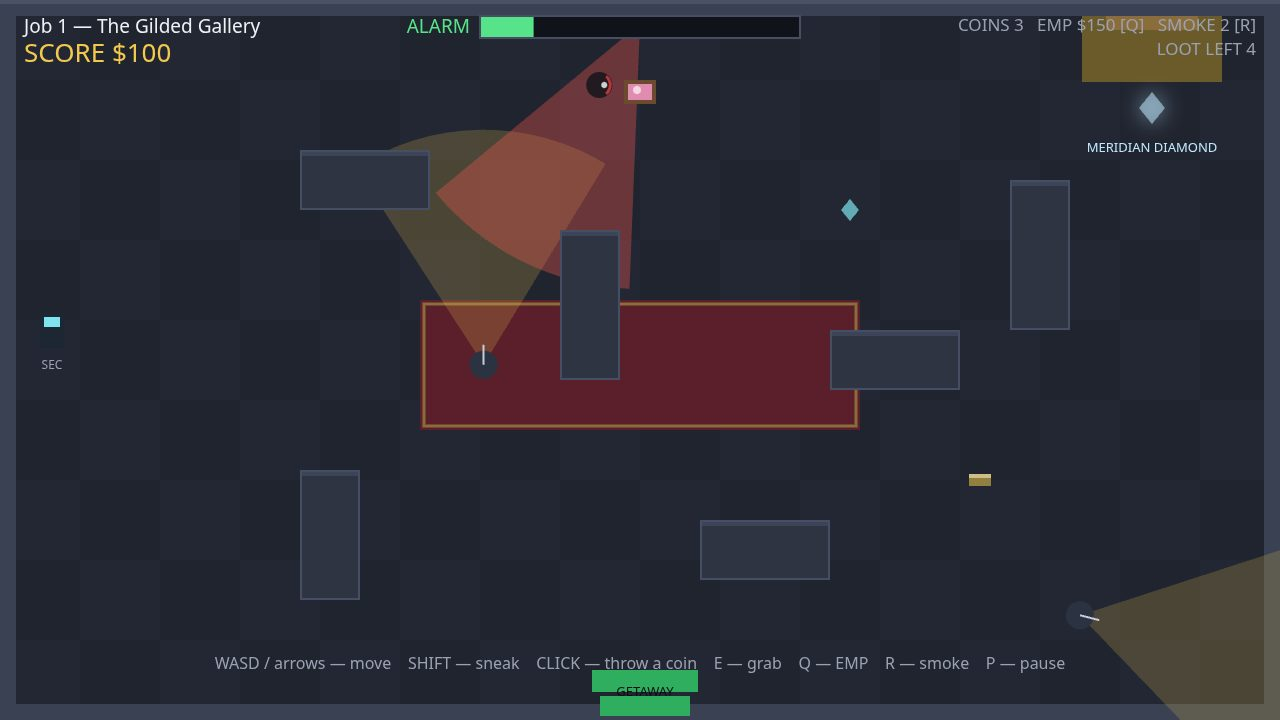
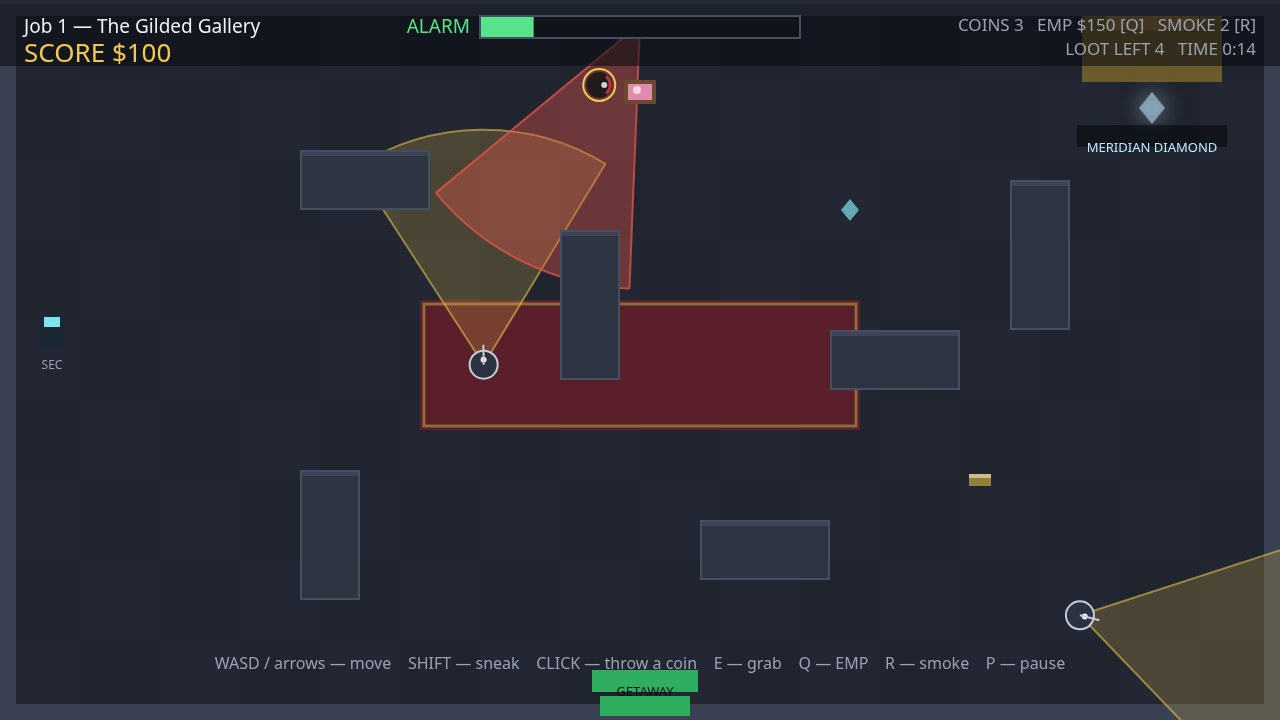
Polish pass: readable HUD, visible thief, crisp cones, game feel
- HUD: dark shelf across the top so tools/loot text never sits on the
  gold vault; level clock (TIME m:ss) next to the loot count; dark pill
  behind banner text and the MERIDIAN DIAMOND label
- Readability: bright gold ring on the thief (was near-invisible black
  on a dark floor), pale outline ring + face dot on guards, hard
  stroked edges on every vision cone so the danger line reads as a line
- Honest feedback: dark cameras now draw dead-grey cones and grey mount
  dots (never a live blue cone); floating +$ / -$ popups on grabs and
  EMP spends; screen shake + red edge glow while chased or alarm >= 75
- Render-only changes (config.js palette + render.js); world, autopilot,
  levels and tuning untouched. Screenshots refreshed from the new build.

diff --git a/game/src/render.js b/game/src/render.js
@@ -58,13 +58,25 @@ export function createRenderer(canvas) {
     context.fillText(value, x, y);
   }
 
-  function drawCone(x, y, facing, range, halfAngle, fill) {
+  // The cone's edge is stroked harder than its fill: the line is the rule a
+  // player plans around, so it must read as a line, not a haze.
+  function drawCone(x, y, facing, range, halfAngle, fill, edge) {
     context.fillStyle = fill;
     context.beginPath();
     context.moveTo(x, y);
     context.arc(x, y, range, facing - halfAngle, facing + halfAngle);
     context.closePath();
     context.fill();
+    context.strokeStyle = edge;
+    context.lineWidth = 2;
+    context.beginPath();
+    context.moveTo(x + Math.cos(facing - halfAngle) * range, y + Math.sin(facing - halfAngle) * range);
+    context.lineTo(x, y);
+    context.lineTo(x + Math.cos(facing + halfAngle) * range, y + Math.sin(facing + halfAngle) * range);
+    context.stroke();
+    context.beginPath();
+    context.arc(x, y, range, facing - halfAngle, facing + halfAngle);
+    context.stroke();
   }
 
   function drawRoom(state) {
@@ -171,19 +183,39 @@ export function createRenderer(canvas) {
       context.closePath();
       context.fill();
       context.restore();
-      text('MERIDIAN DIAMOND', state.diamond.x, state.diamond.y + 34, 13, PALETTE.lootDiamond, 'center');
+      // A dark pill behind the name, so it reads over the vault gold and the
+      // thief standing under it instead of dissolving into them.
+      const label = 'MERIDIAN DIAMOND';
+      context.font = `13px ${FONT}`;
+      const labelWidth = context.measureText(label).width;
+      context.fillStyle = 'rgba(8, 10, 15, 0.65)';
+      context.fillRect(state.diamond.x - labelWidth / 2 - 10, state.diamond.y + 17, labelWidth + 20, 22);
+      text(label, state.diamond.x, state.diamond.y + 34, 13, PALETTE.lootDiamond, 'center');
     }
   }
 
   function drawCones(state) {
+    const camerasDark = state.cameraOffUntil > state.elapsed;
     for (const guard of state.guards) {
       let fill = PALETTE.coneCalm;
-      if (guard.state === GUARD_ALERT) fill = PALETTE.coneAlert;
-      else if (guard.suspicion > 0.25) fill = PALETTE.coneWary;
-      drawCone(guard.x, guard.y, guard.facing, GUARD.visionRange, GUARD.visionHalfAngle, fill);
+      let edge = PALETTE.coneCalmEdge;
+      if (guard.state === GUARD_ALERT) {
+        fill = PALETTE.coneAlert;
+        edge = PALETTE.coneAlertEdge;
+      } else if (guard.suspicion > 0.25) {
+        fill = PALETTE.coneWary;
+        edge = PALETTE.coneWaryEdge;
+      }
+      drawCone(guard.x, guard.y, guard.facing, GUARD.visionRange, GUARD.visionHalfAngle, fill, edge);
     }
     for (const camera of state.cameras) {
-      drawCone(camera.x, camera.y, camera.angle, CAMERA.visionRange, CAMERA.visionHalfAngle, camera.sees ? PALETTE.coneAlert : PALETTE.camCone);
+      // A dark camera shows a dead grey cone, never a live blue one: the player
+      // must be able to trust that "cameras dark" means the sweep is off.
+      if (camerasDark) {
+        drawCone(camera.x, camera.y, camera.angle, CAMERA.visionRange, CAMERA.visionHalfAngle, PALETTE.coneDark, PALETTE.coneDarkEdge);
+      } else {
+        drawCone(camera.x, camera.y, camera.angle, CAMERA.visionRange, CAMERA.visionHalfAngle, camera.sees ? PALETTE.coneAlert : PALETTE.camCone, camera.sees ? PALETTE.coneAlertEdge : PALETTE.camConeEdge);
+      }
     }
   }
 
@@ -202,22 +234,34 @@ export function createRenderer(canvas) {
       context.arc(ping.x, ping.y, 4, 0, Math.PI * 2);
       context.fill();
     }
-    // Cameras on their wall mounts.
+    // Cameras on their wall mounts; a dark camera's eye goes grey with its cone.
+    const camerasDark = state.cameraOffUntil > state.elapsed;
     for (const camera of state.cameras) {
       context.fillStyle = '#39415a';
       context.beginPath();
       context.arc(camera.x, camera.y, 9, 0, Math.PI * 2);
       context.fill();
-      context.fillStyle = camera.sees ? PALETTE.alarmHigh : '#7fe3f0';
+      context.fillStyle = camerasDark ? '#6a7280' : camera.sees ? PALETTE.alarmHigh : '#7fe3f0';
       context.beginPath();
       context.arc(camera.x, camera.y, 4, 0, Math.PI * 2);
       context.fill();
     }
     // Guards: dark coats, pale collars, and a suspicion ring that fills as they notice you.
+    // A pale outline ring keeps a guard readable against the floor — and keeps a
+    // guard from ever being mistaken for the thief.
     for (const guard of state.guards) {
       context.fillStyle = PALETTE.guard;
       context.beginPath();
       context.arc(guard.x, guard.y, GUARD.radius, 0, Math.PI * 2);
+      context.fill();
+      context.strokeStyle = PALETTE.guardTrim;
+      context.lineWidth = 2;
+      context.beginPath();
+      context.arc(guard.x, guard.y, GUARD.radius, 0, Math.PI * 2);
+      context.stroke();
+      context.fillStyle = '#eef1f5';
+      context.beginPath();
+      context.arc(guard.x + Math.cos(guard.facing) * 5, guard.y + Math.sin(guard.facing) * 5, 3, 0, Math.PI * 2);
       context.fill();
       context.strokeStyle = PALETTE.guardTrim;
       context.lineWidth = 2;
@@ -236,7 +280,9 @@ export function createRenderer(canvas) {
         text('!', guard.x, guard.y - GUARD.radius - 8, 20, PALETTE.alarmHigh, 'center');
       }
     }
-    // The thief: black coat, red scarf, quiet feet.
+    // The thief: black coat, red scarf, quiet feet — and a bright gold ring, so
+    // the player can always find themselves at a glance on a dark floor. The ring
+    // stays full-strength while sneaking; only the coat fades.
     const player = state.player;
     if (state.smokeUntil > state.elapsed) {
       context.fillStyle = 'rgba(200, 204, 214, 0.35)';
@@ -259,6 +305,11 @@ export function createRenderer(canvas) {
     context.arc(player.x + Math.cos(player.facing) * 5, player.y + Math.sin(player.facing) * 5, 3, 0, Math.PI * 2);
     context.fill();
     context.globalAlpha = 1;
+    context.strokeStyle = PALETTE.lootGold;
+    context.lineWidth = 2;
+    context.beginPath();
+    context.arc(player.x, player.y, PLAYER.radius + 3, 0, Math.PI * 2);
+    context.stroke();
     // Hack progress ring on the panel.
     if (state.hackProgress > 0) {
       context.strokeStyle = '#7fe3f0';
@@ -271,6 +322,10 @@ export function createRenderer(canvas) {
 
   function drawHud(state, screen) {
     context.textBaseline = 'top';
+    // A dark shelf across the top: the vault alcove is gold, the floor is dark,
+    // and grey HUD text must read over either one.
+    context.fillStyle = 'rgba(8, 10, 15, 0.55)';
+    context.fillRect(0, 0, FIELD.width, 66);
     // Job name and score, top left.
     text(state.level.name, 24, 18, 19, PALETTE.text, 'left');
     text(scoreLabel(state.score), 24, 42, 26, PALETTE.lootGold, 'left');
@@ -293,10 +348,16 @@ export function createRenderer(canvas) {
     const tools = `COINS ${state.coins}   EMP $${TOOLS.empCost} [Q]   SMOKE ${state.smokes} [R]`;
     text(tools, FIELD.width - 24, 18, 17, PALETTE.muted, 'right');
     const lootLeft = state.loot.filter((l) => !l.taken).length + (state.diamond.taken ? 0 : 1);
-    text(`LOOT LEFT ${lootLeft}`, FIELD.width - 24, 42, 17, PALETTE.muted, 'right');
-    // The banner: what just happened.
+    const minutes = Math.floor(state.levelElapsed / 60);
+    const seconds = Math.floor(state.levelElapsed % 60).toString().padStart(2, '0');
+    text(`LOOT LEFT ${lootLeft}   TIME ${minutes}:${seconds}`, FIELD.width - 24, 42, 17, PALETTE.muted, 'right');
+    // The banner: what just happened — on its own dark pill, so it reads over rugs and loot alike.
     if (state.banner) {
       context.textBaseline = 'alphabetic';
+      context.font = `22px ${FONT}`;
+      const bannerWidth = context.measureText(state.banner).width;
+      context.fillStyle = 'rgba(8, 10, 15, 0.6)';
+      context.fillRect(FIELD.width / 2 - bannerWidth / 2 - 14, 66, bannerWidth + 28, 34);
       text(state.banner, FIELD.width / 2, 92, 22, PALETTE.lootGold, 'center');
       context.textBaseline = 'top';
     }
@@ -332,17 +393,69 @@ export function createRenderer(canvas) {
     text(prompt, FIELD.width / 2, y + height - 38, 23, PALETTE.lootGold, 'center');
   }
 
+  // Floating score popups, kept here in the renderer so the world's rules stay
+  // untouched: a grab shows +$100 where it happened, an EMP shows -$150. Only
+  // single-event deltas spawn one — a restart's whole-score drop is not a popup.
+  let lastScore = null;
+  const popups = [];
+
+  function drawPopups(state) {
+    if (lastScore === null) {
+      lastScore = state.score;
+      return;
+    }
+    const delta = state.score - lastScore;
+    lastScore = state.score;
+    if (delta !== 0 && delta >= -200 && delta <= 550) {
+      popups.push({
+        x: state.player.x,
+        y: state.player.y - 24,
+        text: `${delta > 0 ? '+' : '−'}$${Math.abs(delta)}`,
+        at: state.elapsed,
+        good: delta > 0,
+      });
+    }
+    for (let i = popups.length - 1; i >= 0; i -= 1) {
+      const age = state.elapsed - popups[i].at;
+      if (age < 0 || age > 1.2) popups.splice(i, 1);
+    }
+    for (const popup of popups) {
+      const age = state.elapsed - popup.at;
+      context.globalAlpha = Math.max(0, 1 - age / 1.2);
+      context.font = `bold 20px ${FONT}`;
+      context.fillStyle = popup.good ? PALETTE.lootGold : PALETTE.alarmHigh;
+      context.textAlign = 'center';
+      context.fillText(popup.text, popup.x, popup.y - age * 30);
+    }
+    context.globalAlpha = 1;
+  }
+
   /** Paint one frame: the room, then the HUD or a panel for the screen the game is on. */
   function draw(state, screen, best) {
     context.setTransform(1, 0, 0, 1, 0, 0);
     context.fillStyle = PALETTE.backdrop;
     context.fillRect(0, 0, canvas.width, canvas.height);
-    context.setTransform(view.scale, 0, 0, view.scale, view.x, view.y);
+    // A chase shakes the frame: a small deterministic shudder while a guard is
+    // on your tail or the alarm is nearly full. Driven by elapsed time, so a
+    // staged frame always shakes the same way.
+    const anyAlert = state.guards.some((g) => g.state === GUARD_ALERT);
+    const tense = anyAlert || state.alarm >= 75;
+    const shakeX = tense ? Math.sin(state.elapsed * 47) * 3 * view.scale : 0;
+    const shakeY = tense ? Math.cos(state.elapsed * 39) * 3 * view.scale : 0;
+    context.setTransform(view.scale, 0, 0, view.scale, view.x + shakeX, view.y + shakeY);
     drawRoom(state);
     drawCones(state);
     drawLoot(state);
     drawCover(state);
     drawActors(state);
+    drawPopups(state);
+    // The alarm burning at the frame's edge: the room itself tells you the
+    // lockdown is close, before the meter does.
+    if (state.alarm >= 60) {
+      context.strokeStyle = `rgba(229, 83, 75, ${((state.alarm - 60) / 40) * 0.55})`;
+      context.lineWidth = 5;
+      context.strokeRect(2.5, 2.5, FIELD.width - 5, FIELD.height - 5);
+    }
     if (screen === SCREEN_TITLE) {
       drawPanel('THE MERIDIAN JOB', [
         'Three rooms. One diamond. No alarms.',

diff --git a/game/src/config.js b/game/src/config.js
@@ -74,9 +74,15 @@ export const PALETTE = {
   guard: '#2b3242',
   guardTrim: '#c8ccd6',
   coneCalm: 'rgba(242, 201, 76, 0.20)',
+  coneCalmEdge: 'rgba(242, 201, 76, 0.55)',
   coneWary: 'rgba(240, 140, 60, 0.30)',
+  coneWaryEdge: 'rgba(240, 140, 60, 0.65)',
   coneAlert: 'rgba(229, 83, 75, 0.38)',
+  coneAlertEdge: 'rgba(229, 83, 75, 0.75)',
   camCone: 'rgba(120, 200, 255, 0.16)',
+  camConeEdge: 'rgba(120, 200, 255, 0.45)',
+  coneDark: 'rgba(140, 150, 165, 0.10)',
+  coneDarkEdge: 'rgba(140, 150, 165, 0.35)',
   lootGold: '#f2c94c',
   lootGem: '#7fe3f0',
   lootPainting: '#e08bb0',
